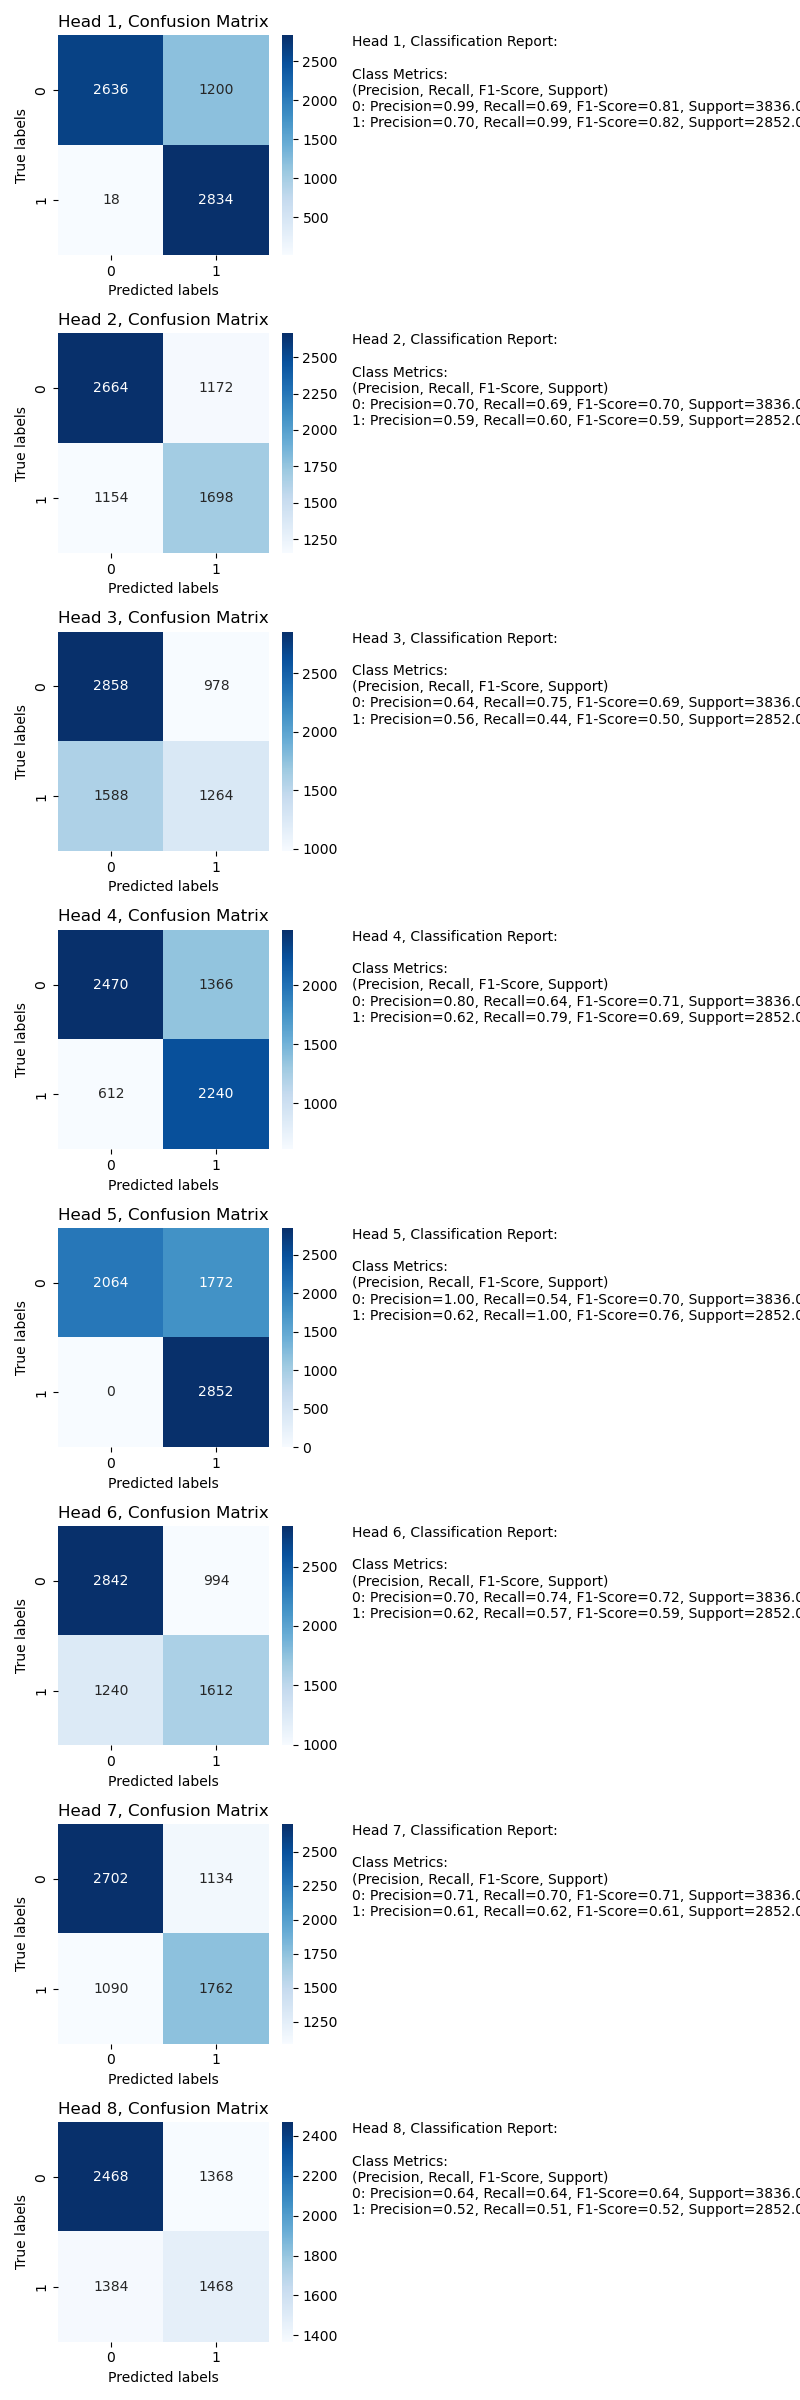
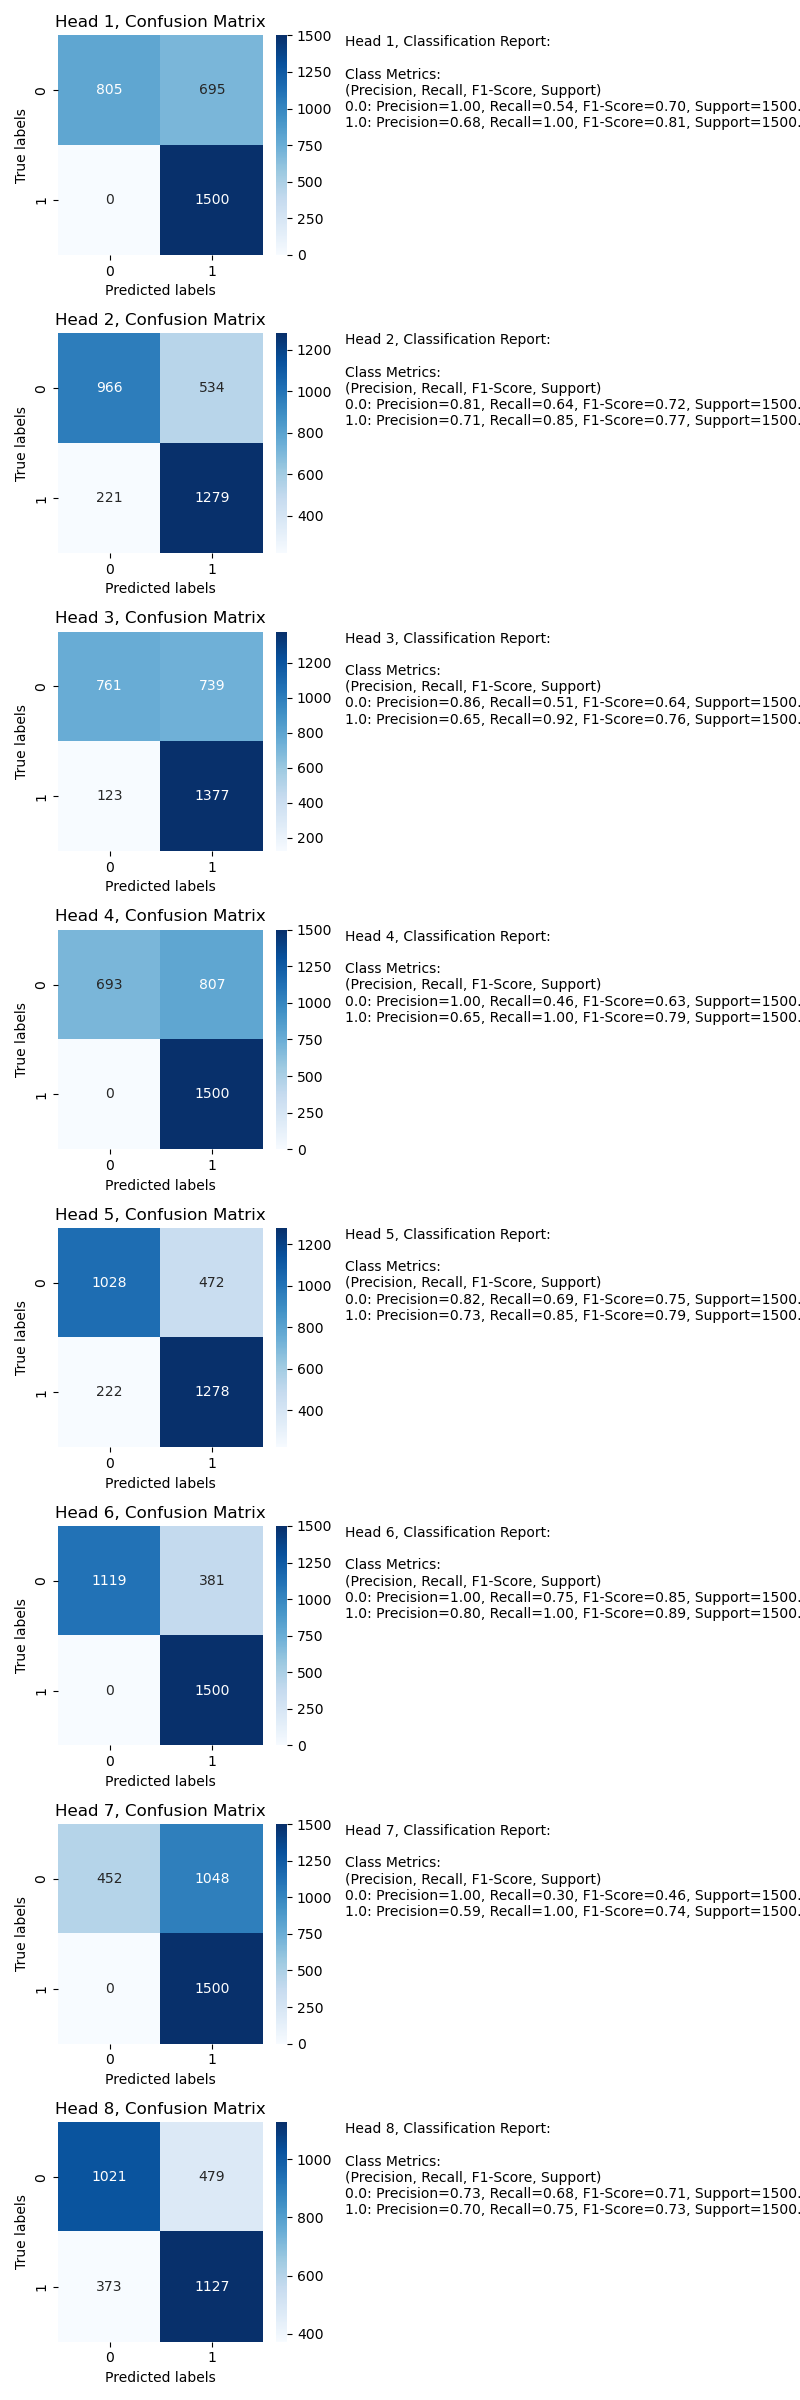
evaluator batch handling of test files for attribution and head complexity calculation

diff --git a/evaluation/evaluators/divdis_evaluator.py b/evaluation/evaluators/divdis_evaluator.py
@@ -27,20 +27,22 @@ class DivDisEvaluatorClassifier():
     def __init__(
             self,
             classifier,
-            plot_dir=None,
+            batch_size=64,
+            base_dir=None,
             image_input=False,
             stack_size=2):
         
         self.classifier = classifier
 
-        self.plot_dir = plot_dir
+        self.base_dir = base_dir
+        self.plot_dir = os.path.join(self.base_dir, 'plots')
         if self.plot_dir:
             os.makedirs(self.plot_dir, exist_ok=True)
         
         self.head_num = self.classifier.head_num
         self.image_input = image_input
 
-        self.test_dataset = SetDataset(max_size=1e6, batchsize=int(1e6))
+        self.test_dataset = SetDataset(max_size=1e6, batchsize=batch_size)
         
         self.stack_size = stack_size
         
@@ -54,52 +56,82 @@ class DivDisEvaluatorClassifier():
         self.test_dataset.add_true_files(true_files)
         self.test_dataset.add_false_files(false_files)
 
-        
-    def evaluate(self, num_sample, num_features=26):
-        if self.image_input is False:
+
+    def evaluate(self, num_features=26, plot=False):
+        if self.image_input:
+            raise NotImplementedError
+
+        num_test_states = self.test_dataset.batchsize * self.test_dataset.num_batches
+        all_states = np.zeros((num_test_states, num_features))
+        all_labels = np.zeros((num_test_states, ))
+        all_labels_pred = np.zeros((num_test_states, self.head_num))
+        self.ig_attr_test = [{'all':[],
+                              'true positive':[],
+                              'false positive':[],
+                              'true negative':[],
+                              'false negative':[]} for _ in range(self.head_num)]
+
+        for i in range(self.test_dataset.num_batches):
+            print(f'Batch {i+1}/{self.test_dataset.num_batches}')
+            
             states, labels = self.test_dataset.get_batch() # should be all data, since batchsize is max_size
+            i0, i1 = i*self.test_dataset.batchsize, (i+1)*self.test_dataset.batchsize
+
+            print(states.shape, labels.shape)
+            print(i0, i1)
+            all_states[i0:i1] = states.numpy()
+            all_labels[i0:i1] = labels.numpy()
+
             if self.classifier.use_gpu:
                 states = states.to('cuda')
                 labels = labels.to('cuda')
-            if num_sample < len(states):
-                rand_idx = random.sample(range(len(states)), num_sample)
-                states = states[rand_idx]
-                labels = labels[rand_idx]            
-            with torch.no_grad():
-                labels_pred = self.classifier.predict(states) # (batch_size, head_num, num_classes)
-                labels_pred = torch.argmax(labels_pred, dim=2) # (batch_size, head_num)
+
+            print(f'states shape, device: {states.shape}, {states.device}')
+            print(f'labels shape, device: {labels.shape}, {labels.device}')
+                 
+            labels_pred = self.classifier.predict(states).detach() # (batch_size, head_num, num_classes)
+            labels_pred = torch.argmax(labels_pred, dim=2) # (batch_size, head_num)
+            all_labels_pred[i0:i1] = labels_pred.to('cpu').numpy()
 
             for head_idx in range(self.head_num):
                 # get the predictions for the head
                 labels_pred_head = labels_pred[:, head_idx]
-                
-                # add sklearn confusion matrix and classification report
-                cm = confusion_matrix(labels.to('cpu').numpy(), labels_pred_head.to('cpu').numpy())
-                self.confusion_matrices[head_idx] = cm
-                
-                report = classification_report(labels.to('cpu').numpy(), 
-                                               labels_pred_head.to('cpu').numpy(),
-                                               output_dict=True)
-                report_df = pd.DataFrame(report).transpose()
-                self.classification_reports[head_idx] = report_df
-
+            
                 # attributions
                 states_tp = states[(labels == 1) & (labels_pred_head == 1)]
                 states_tn = states[(labels == 0) & (labels_pred_head == 0)]
                 states_fp = states[(labels == 0) & (labels_pred_head == 1)]
                 states_fn = states[(labels == 1) & (labels_pred_head == 0)]
 
-                self.ig_attr_test[head_idx]['all'] = self.integrated_gradients[head_idx].attribute(states, target=labels_pred_head)
-                self.ig_attr_test[head_idx]['true positive'] = self.integrated_gradients[head_idx].attribute(states_tp, target=1) if len(states_tp) > 0 else None
-                self.ig_attr_test[head_idx]['true negative'] = self.integrated_gradients[head_idx].attribute(states_tn, target=0) if len(states_tn) > 0 else None
-                self.ig_attr_test[head_idx]['false positive'] = self.integrated_gradients[head_idx].attribute(states_fp, target=1) if len(states_fp) > 0 else None
-                self.ig_attr_test[head_idx]['false negative'] = self.integrated_gradients[head_idx].attribute(states_fn, target=0) if len(states_fn) > 0 else None
+                self.ig_attr_test[head_idx]['all'].append(self.integrated_gradients[head_idx].attribute(states, target=labels_pred_head).detach().to('cpu').numpy()) if len(states) > 0 else np.array([])
+                self.ig_attr_test[head_idx]['true positive'].append(self.integrated_gradients[head_idx].attribute(states_tp, target=1).detach().to('cpu').numpy()) if len(states_tp) > 0 else np.array([])
+                self.ig_attr_test[head_idx]['true negative'].append(self.integrated_gradients[head_idx].attribute(states_tn, target=0).detach().to('cpu').numpy()) if len(states_tn) > 0 else np.array([])
+                self.ig_attr_test[head_idx]['false positive'].append(self.integrated_gradients[head_idx].attribute(states_fp, target=1).detach().to('cpu').numpy()) if len(states_fp) > 0 else np.array([])
+                self.ig_attr_test[head_idx]['false negative'].append(self.integrated_gradients[head_idx].attribute(states_fn, target=0).detach().to('cpu').numpy()) if len(states_fn) > 0 else np.array([])
+
+                print(f'Head {head_idx+1} done')
+                print(torch.cuda.memory_allocated() / 1e9, 'GB')
+                print(torch.cuda.memory_reserved() / 1e9, 'GB')
+
+        
+        self.ig_attr_test = [{k: np.concatenate(v) if len(v)>0 else np.array([]) for k, v in ig_attr_head.items()} for ig_attr_head in self.ig_attr_test]
+        
+        # TODO: fix confusion matrix and classification report for batched data
+        if plot:
+            for head_idx in range(self.head_num):
+                labels_pred_head = all_labels_pred[:, head_idx]
+                cm = confusion_matrix(all_labels, labels_pred_head)
+                self.confusion_matrices[head_idx] = cm
             
+                report = classification_report(all_labels, 
+                                            labels_pred_head,
+                                            output_dict=True)
+                report_df = pd.DataFrame(report).transpose()
+                self.classification_reports[head_idx] = report_df
+
             self._plot_attributions_factored(num_features)
             self._plot_cm_cr()
-
-        if self.image_input is True:
-            raise NotImplementedError
+        
 
     '''
     def evaluate_old(self, num_images):
@@ -236,7 +268,7 @@ class DivDisEvaluatorClassifier():
             axes = [axes]
         # plt.subplots_adjust(wspace=0.1, hspace=0.1)
 
-        x_axis_data = np.arange(26)
+        x_axis_data = np.arange(num_features)
         #x_axis_data_labels = list(map(lambda idx: feature_names[idx], x_axis_data))
         x_axis_data_labels = ['door_x', 'door_y', 'door_locked', 'door_open', 'door_color', 
                               'key1_x', 'key1_y', 'key1_color', 
@@ -250,11 +282,11 @@ class DivDisEvaluatorClassifier():
         for i in range(self.head_num):
             ig_attr_head = self.ig_attr_test[i]
             for j, attr_type in enumerate(['all','true positive','false positive','true negative','false negative']):
-                ax = axes[i, j]
+                ax = axes[i,j]
                 ig_attr_test = ig_attr_head[attr_type]
                 
-                if ig_attr_test is not None:  # Check if attribution was calculated
-                    ig_attr_test_sum = ig_attr_test.detach().to('cpu').numpy().sum(0)
+                if len(ig_attr_test) > 0:  # Check if attribution was calculated, should be non-empty
+                    ig_attr_test_sum = ig_attr_test.sum(0)
                     # normalize the sum of attributions by dividing by L1 norm
                     ig_attr_test_norm_sum = ig_attr_test_sum / np.linalg.norm(ig_attr_test_sum, ord=1) if np.linalg.norm(ig_attr_test_sum, ord=1) > 0 else ig_attr_test_sum
                     if attr_type == 'all':
@@ -326,6 +358,6 @@ class DivDisEvaluatorClassifier():
         head_complexity = []
         for i in range(self.head_num):
             ig_attr_test = self.ig_attr_test[i]['all']
-            ig_attr_test_std = ig_attr_test.detach().to('cpu').numpy().std(0)
+            ig_attr_test_std = ig_attr_test.std(0)
             head_complexity.append(ig_attr_test_std.mean())
         return head_complexity

diff --git a/evaluation/divdis_classifier_evaluation.py b/evaluation/divdis_classifier_evaluation.py
@@ -11,7 +11,7 @@ from evaluation.evaluators import DivDisEvaluatorClassifier
 from experiments.divdis_minigrid.core.advanced_minigrid_factored_divdis_classifier_experiment import AdvancedMinigridFactoredDivDisClassifierExperiment
 
 
-positive_train_files = ["resources/factored_minigrid_images/adv_doorkey_8x8_v2_openreddoor_doorred_0_initiation_positive.npy"]
+'''positive_train_files = ["resources/factored_minigrid_images/adv_doorkey_8x8_v2_openreddoor_doorred_0_initiation_positive.npy"]
 negative_train_files = ["resources/factored_minigrid_images/adv_doorkey_8x8_v2_openreddoor_doorred_0_initiation_negative.npy"]
 unlabelled_train_files = ["resources/factored_minigrid_images/adv_doorkey_8x8_v2_openbluedoor_doorblue_1_initiation_positive.npy",
                           "resources/factored_minigrid_images/adv_doorkey_8x8_v2_openbluedoor_doorblue_0_initiation_negative.npy",
@@ -35,8 +35,63 @@ negative_test_files = [
     "resources/factored_minigrid_images/adv_doorkey_8x8_v2_openreddoor_doorred_7_initiation_negative.npy",
     "resources/factored_minigrid_images/adv_doorkey_8x8_v2_openreddoor_doorred_8_initiation_negative.npy",
     "resources/factored_minigrid_images/adv_doorkey_8x8_v2_openreddoor_doorred_9_initiation_negative.npy",
-                      ]
+                      ]'''
 
+positive_train_files = [
+    "resources/factored_minigrid_images/adv_doorkey_8x8_v2_getredkey_doorred_0_termination_positive.npy",
+    "resources/factored_minigrid_images/adv_doorkey_8x8_v2_getredkey_doorred_0_1_termination_positive.npy",
+    ]
+negative_train_files = [
+    "resources/factored_minigrid_images/adv_doorkey_8x8_v2_getredkey_doorred_0_termination_negative.npy",
+    "resources/factored_minigrid_images/adv_doorkey_8x8_v2_getredkey_doorred_0_1_termination_negative.npy",
+    ]
+unlabelled_train_files = [
+    # "resources/factored_minigrid_images/adv_doorkey_8x8_v2_getbluekey_doorblue_1_1_termination_positive.npy",
+    # "resources/factored_minigrid_images/adv_doorkey_8x8_v2_getbluekey_doorblue_1_1_termination_negative.npy",
+    # "resources/factored_minigrid_images/adv_doorkey_8x8_v2_getgreenkey_doorgreen_1_1_termination_negative.npy",
+    # "resources/factored_minigrid_images/adv_doorkey_8x8_v2_getgreenkey_doorgreen_1_1_termination_positive.npy",
+    "resources/factored_minigrid_images/adv_doorkey_8x8_v2_getredkey_doorred_2_1_termination_positive.npy",
+    "resources/factored_minigrid_images/adv_doorkey_8x8_v2_getredkey_doorred_1_1_termination_positive.npy",
+    "resources/factored_minigrid_images/adv_doorkey_8x8_v2_getredkey_doorred_2_1_termination_negative.npy",
+    "resources/factored_minigrid_images/adv_doorkey_8x8_v2_getredkey_doorred_1_1_termination_negative.npy",
+                          ]
+
+positive_test_files = [
+    "resources/factored_minigrid_images/adv_doorkey_8x8_v2_getredkey_doorred_5_1_termination_positive.npy",
+    "resources/factored_minigrid_images/adv_doorkey_8x8_v2_getredkey_doorred_6_1_termination_positive.npy",
+    "resources/factored_minigrid_images/adv_doorkey_8x8_v2_getredkey_doorred_7_1_termination_positive.npy",
+    "resources/factored_minigrid_images/adv_doorkey_8x8_v2_getredkey_doorred_8_1_termination_positive.npy",
+    "resources/factored_minigrid_images/adv_doorkey_8x8_v2_getredkey_doorred_9_1_termination_positive.npy",
+    "resources/factored_minigrid_images/adv_doorkey_8x8_v2_getredkey_doorred_10_1_termination_positive.npy",
+    "resources/factored_minigrid_images/adv_doorkey_8x8_v2_getredkey_doorred_11_1_termination_positive.npy",
+    "resources/factored_minigrid_images/adv_doorkey_8x8_v2_getredkey_doorred_3_termination_positive.npy",
+    "resources/factored_minigrid_images/adv_doorkey_8x8_v2_getredkey_doorred_4_termination_positive.npy",
+    "resources/factored_minigrid_images/adv_doorkey_8x8_v2_getredkey_doorred_5_termination_positive.npy",
+    "resources/factored_minigrid_images/adv_doorkey_8x8_v2_getredkey_doorred_6_termination_positive.npy",
+    "resources/factored_minigrid_images/adv_doorkey_8x8_v2_getredkey_doorred_7_termination_positive.npy",
+    "resources/factored_minigrid_images/adv_doorkey_8x8_v2_getredkey_doorred_8_termination_positive.npy",
+    "resources/factored_minigrid_images/adv_doorkey_8x8_v2_getredkey_doorred_9_termination_positive.npy",
+    "resources/factored_minigrid_images/adv_doorkey_8x8_v2_getredkey_doorred_10_termination_positive.npy",
+    "resources/factored_minigrid_images/adv_doorkey_8x8_v2_getredkey_doorred_11_termination_positive.npy",
+                      ]
+negative_test_files = [
+    "resources/factored_minigrid_images/adv_doorkey_8x8_v2_getredkey_doorred_5_1_termination_negative.npy",
+    "resources/factored_minigrid_images/adv_doorkey_8x8_v2_getredkey_doorred_6_1_termination_negative.npy",
+    "resources/factored_minigrid_images/adv_doorkey_8x8_v2_getredkey_doorred_7_1_termination_negative.npy",
+    "resources/factored_minigrid_images/adv_doorkey_8x8_v2_getredkey_doorred_8_1_termination_negative.npy",
+    "resources/factored_minigrid_images/adv_doorkey_8x8_v2_getredkey_doorred_9_1_termination_negative.npy",
+    "resources/factored_minigrid_images/adv_doorkey_8x8_v2_getredkey_doorred_10_1_termination_negative.npy",
+    "resources/factored_minigrid_images/adv_doorkey_8x8_v2_getredkey_doorred_11_1_termination_negative.npy",
+    "resources/factored_minigrid_images/adv_doorkey_8x8_v2_getredkey_doorred_3_termination_negative.npy",
+    "resources/factored_minigrid_images/adv_doorkey_8x8_v2_getredkey_doorred_4_termination_negative.npy",
+    "resources/factored_minigrid_images/adv_doorkey_8x8_v2_getredkey_doorred_5_termination_negative.npy",
+    "resources/factored_minigrid_images/adv_doorkey_8x8_v2_getredkey_doorred_6_termination_negative.npy",
+    "resources/factored_minigrid_images/adv_doorkey_8x8_v2_getredkey_doorred_7_termination_negative.npy",
+    "resources/factored_minigrid_images/adv_doorkey_8x8_v2_getredkey_doorred_8_termination_negative.npy",
+    "resources/factored_minigrid_images/adv_doorkey_8x8_v2_getredkey_doorred_9_termination_negative.npy",
+    "resources/factored_minigrid_images/adv_doorkey_8x8_v2_getredkey_doorred_10_termination_negative.npy",
+    "resources/factored_minigrid_images/adv_doorkey_8x8_v2_getredkey_doorred_11_termination_negative.npy",
+                      ]
 
 def transform(x):
     x = x/torch.tensor([7,7,1,1,5,7,7,5,7,7,5,7,7,5,7,7,5,7,7,5, 7,7,4,7,7,7])
@@ -45,7 +100,7 @@ def transform(x):
 if __name__ == "__main__":
     parser = argparse.ArgumentParser()
     #parser.add_argument("--classifier_dir", type=str, required=True)
-    parser.add_argument("--plot_dir", type=str, required=True)
+    parser.add_argument("--base_dir", type=str, required=True)
     parser.add_argument("--config_file", nargs='+', type=str, required=True)
     parser.add_argument("--gin_bindings", default=[], help='Gin bindings to override the values' + 
                 ' set in the config files (e.g. "DQNAgent.epsilon_train=0.1",' +
@@ -61,12 +116,13 @@ if __name__ == "__main__":
 
     evaluator = DivDisEvaluatorClassifier(
                     classifier,
-                    args.plot_dir)
+                    batch_size=10000,
+                    base_dir=args.base_dir)
 
     evaluator.add_test_files(positive_test_files, negative_test_files)
     evaluator.test_dataset.set_transform_function(transform)
 
-    evaluator.evaluate(num_sample=1e6, num_features=26)
+    evaluator.evaluate(num_features=26, plot=True)
 
     print(f"Head complexity: {evaluator.get_head_complexity()}")
 
